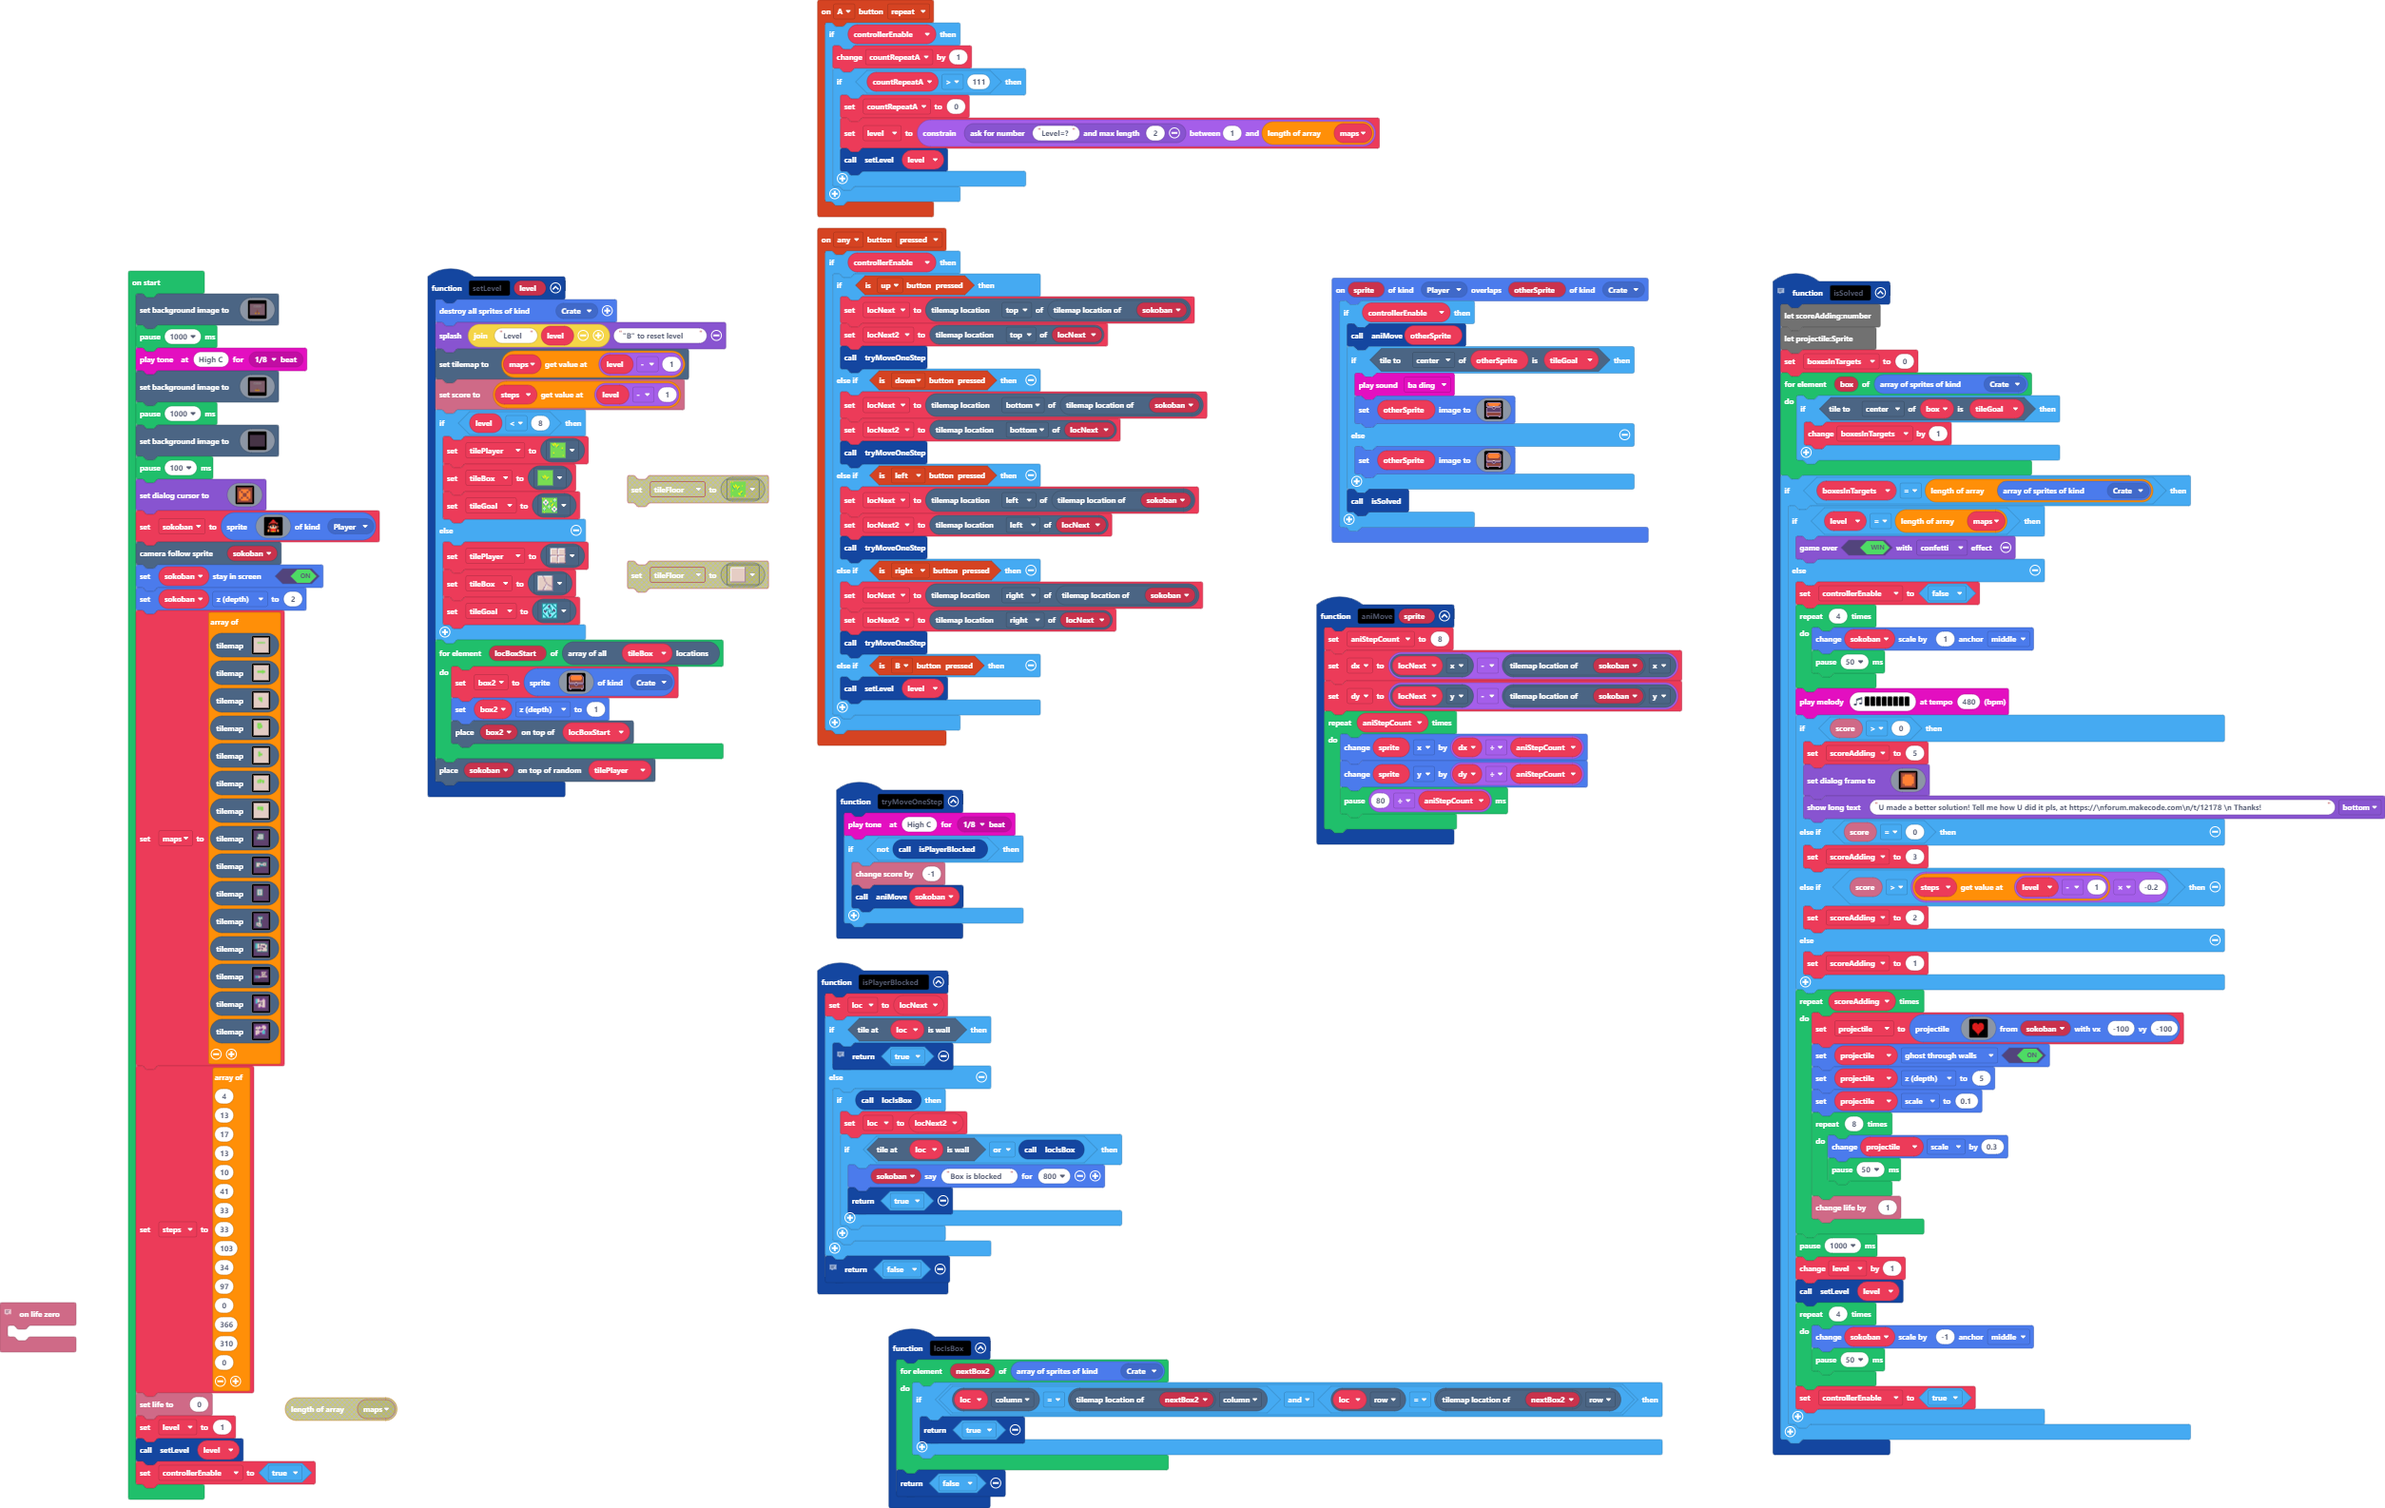
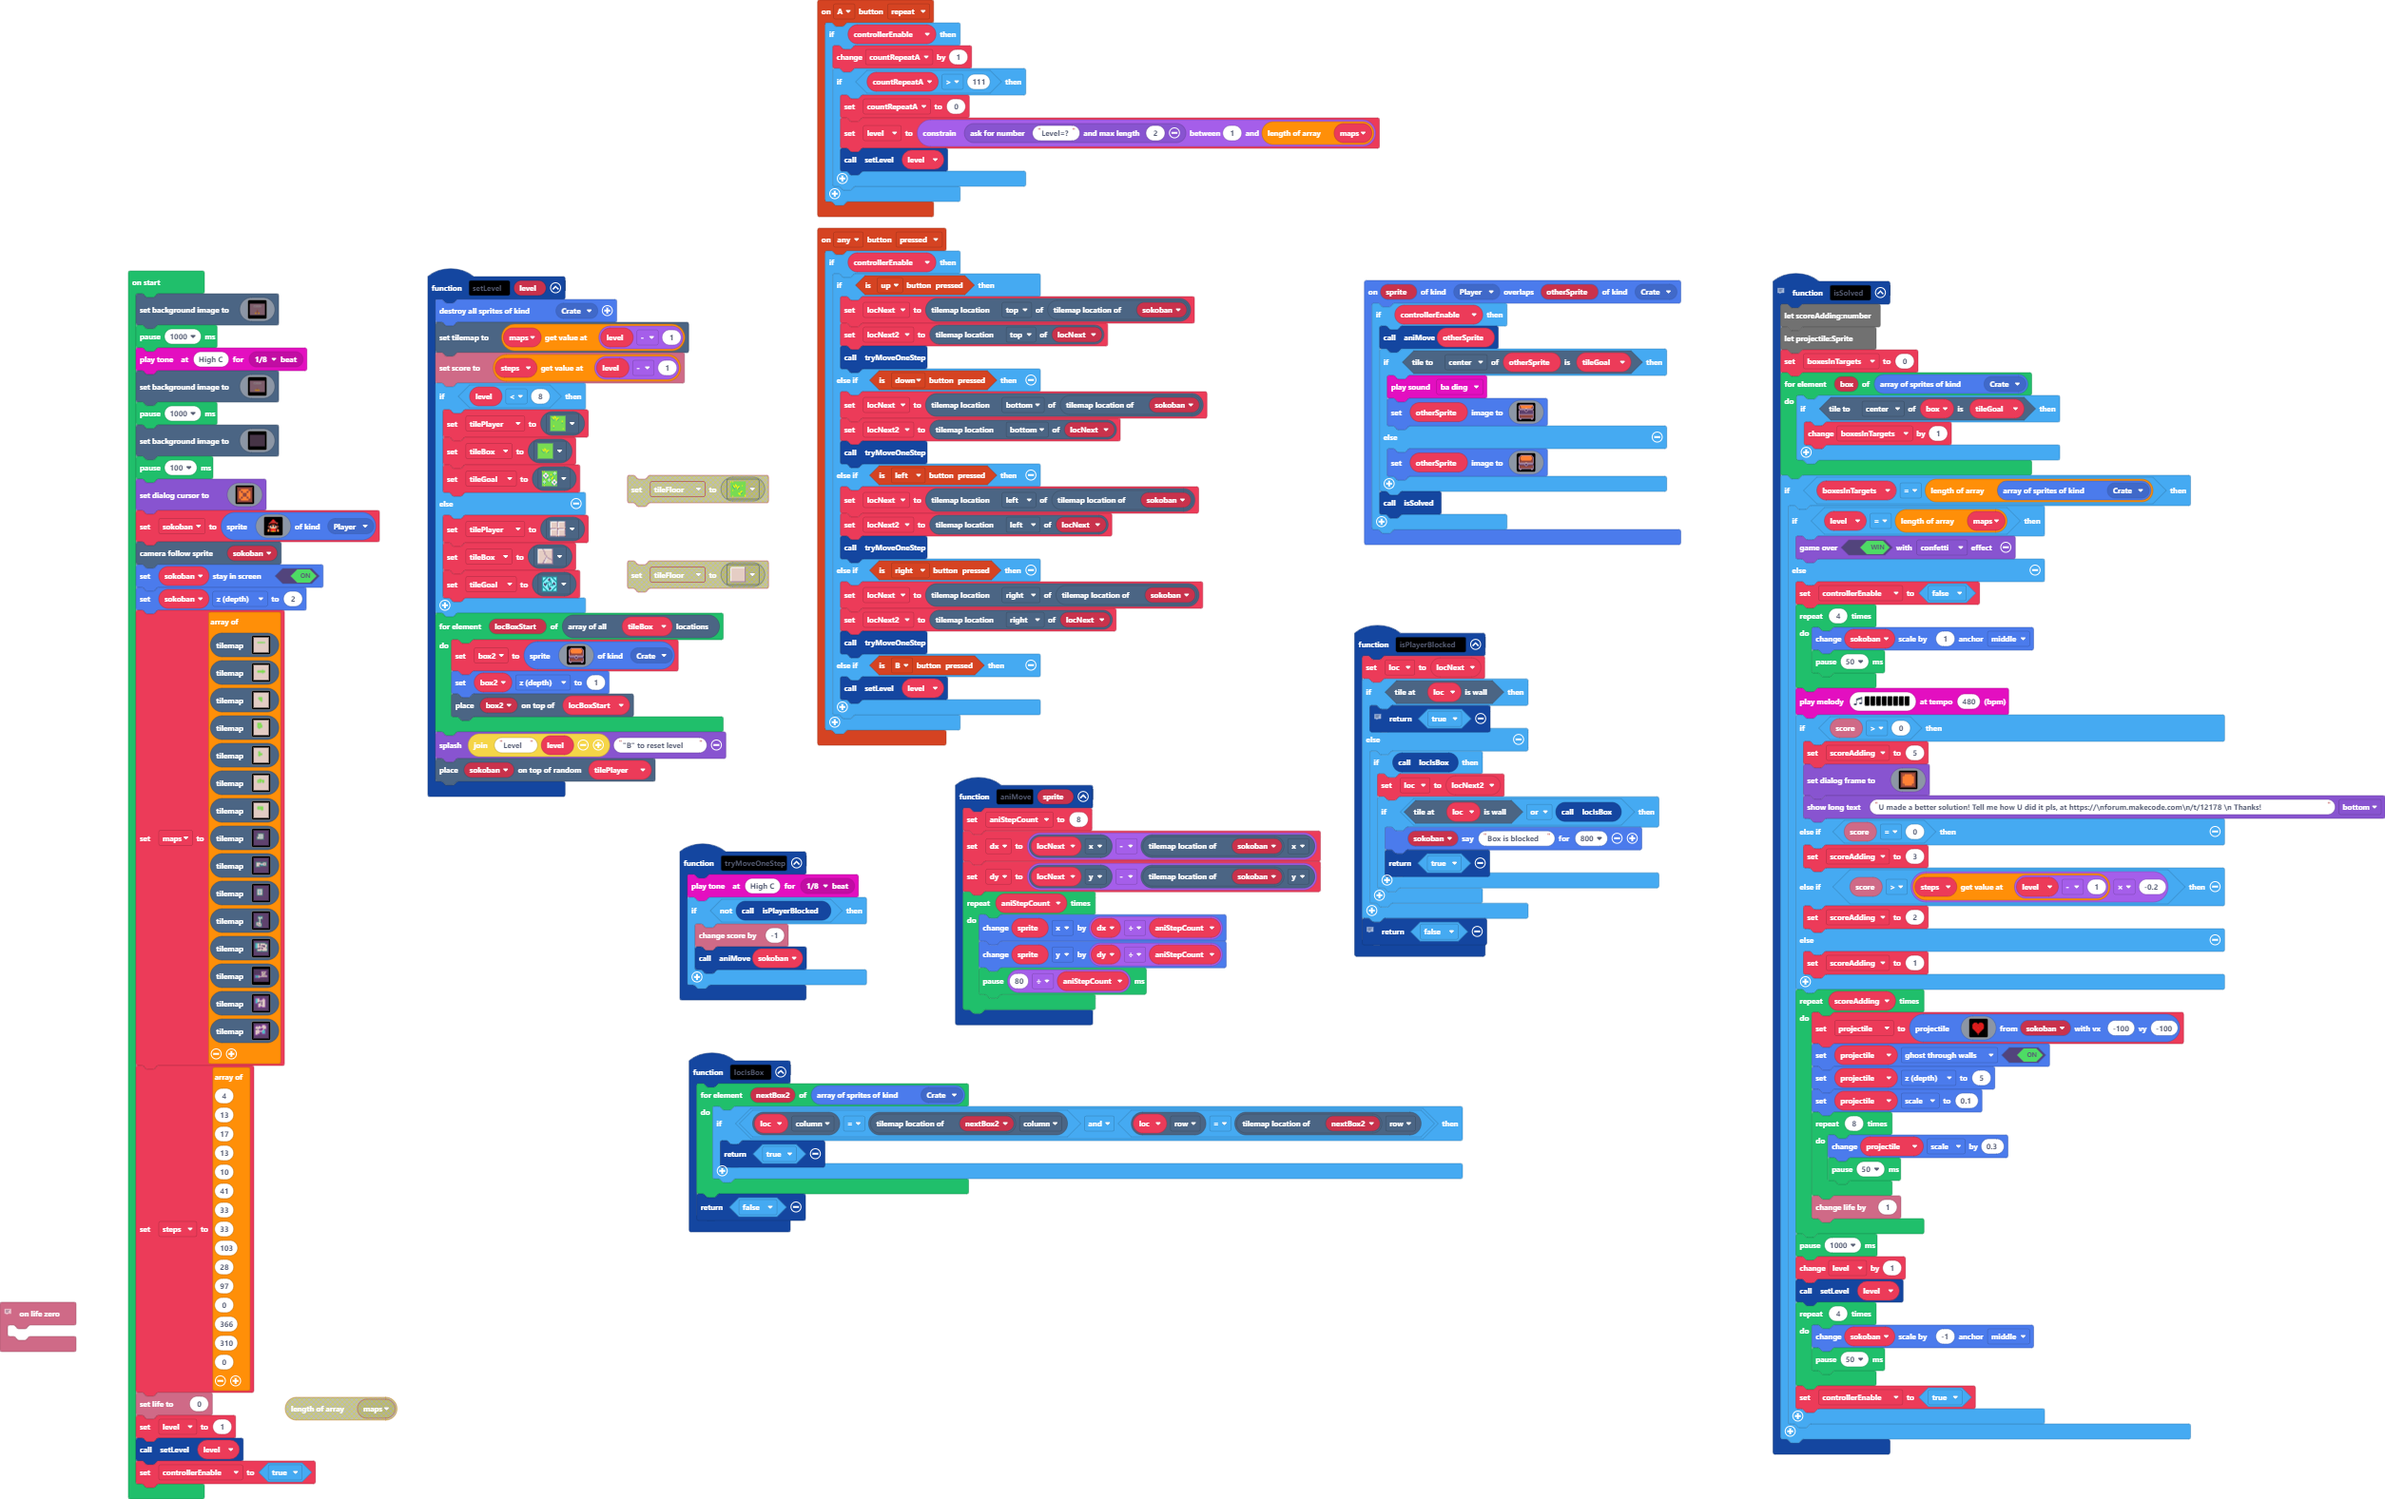
Update level 10 best solution

diff --git a/main.ts b/main.ts
@@ -8,7 +8,6 @@ namespace SpriteKind {
 }
 function setLevel (level: number) {
     sprites.destroyAllSpritesOfKind(SpriteKind.Crate)
-    game.splash("Level " + level, "\"B\" to reset level")
     tiles.setCurrentTilemap(maps[level - 1])
     info.setScore(steps[level - 1])
     if (level < 8) {
@@ -42,6 +41,7 @@ function setLevel (level: number) {
         box2.z = 1
         tiles.placeOnTile(box2, locBoxStart)
     }
+    game.splash("Level " + level, "\"B\" to reset level")
     tiles.placeOnRandomTile(sokoban, tilePlayer)
 }
 sprites.onOverlap(SpriteKind.Player, SpriteKind.Crate, function (sprite, otherSprite) {
@@ -714,7 +714,7 @@ steps = [
 33,
 33,
 103,
-34,
+28,
 97,
 0,
 366,
